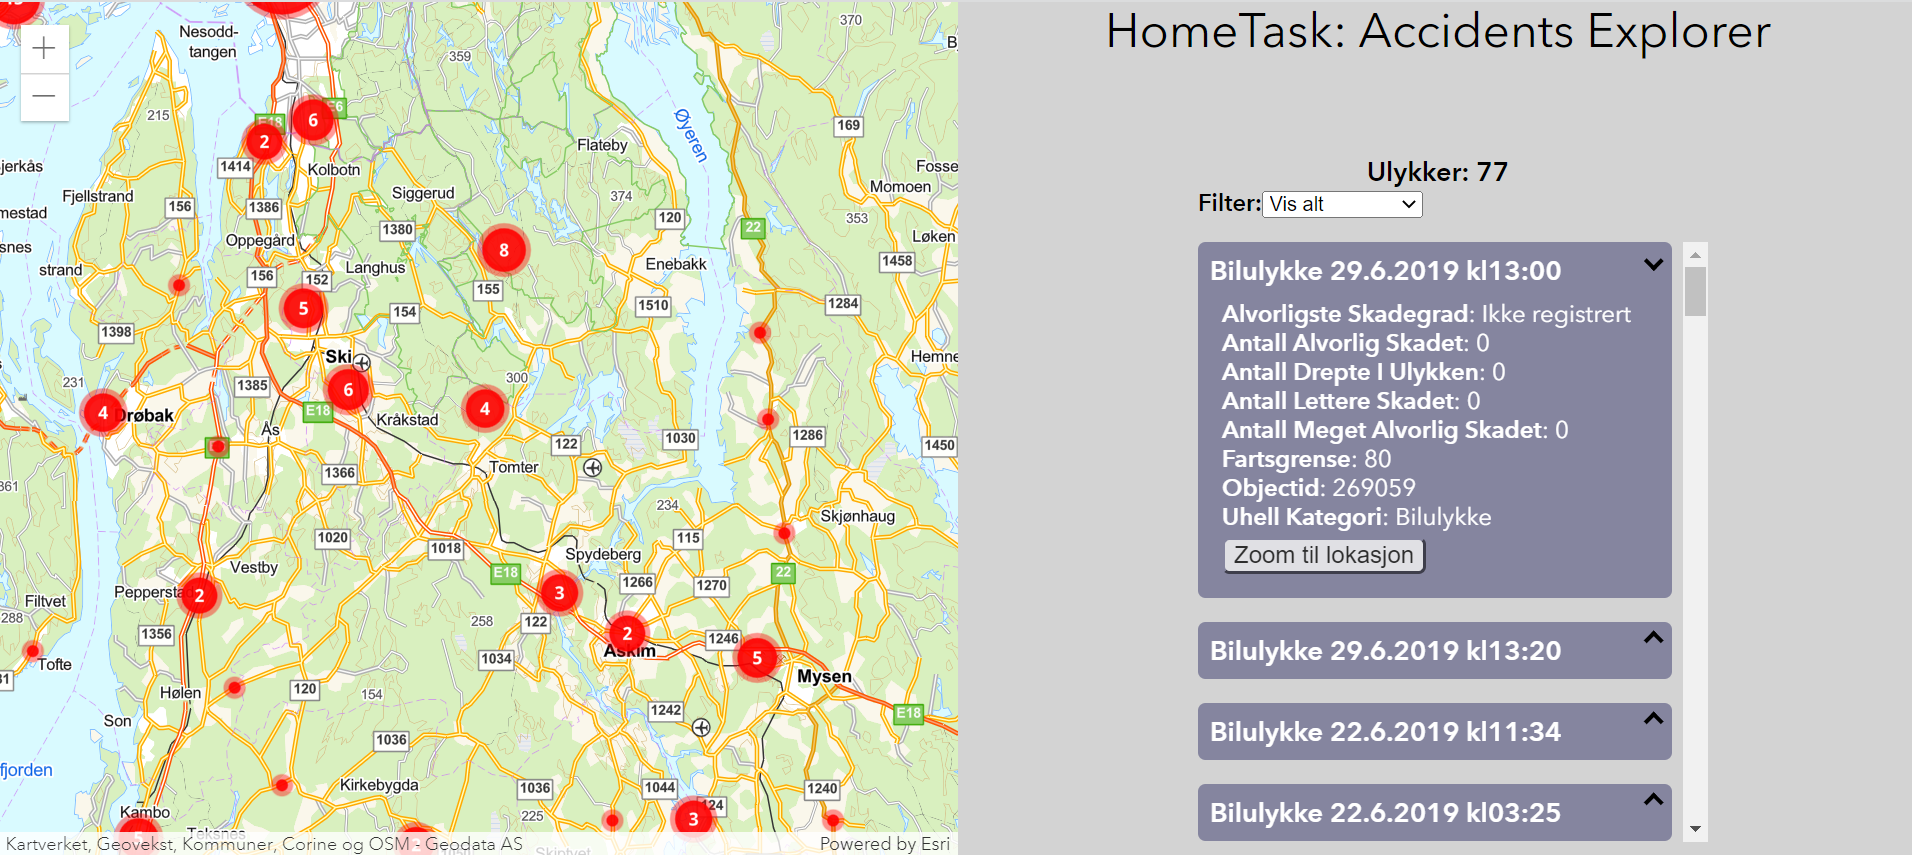
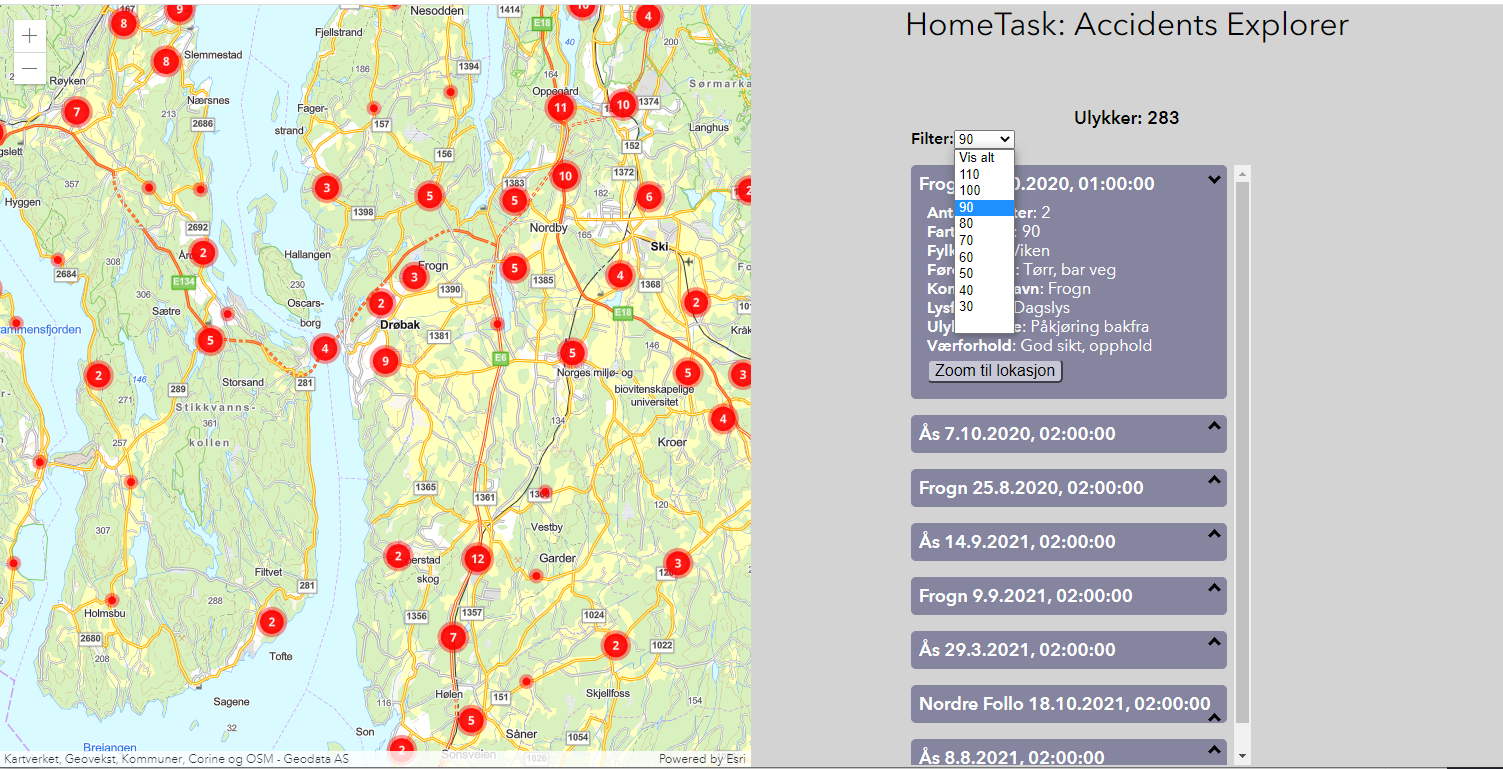
Changed accident map service. Updated attributes and description according to new service

diff --git a/src/Components/Map/mapConfig.js b/src/Components/Map/mapConfig.js
@@ -18,17 +18,14 @@ export const basemapNorway = new Basemap({
     ]
 });
 
-// NVDB Norsk Veidatabank
+// NVDB Norsk Veidatabank public AGOL mapservice
 export const layerNVDB = new FeatureLayer({
     portalItem: {
-      id: 'c985fb2357f9466784107b4905629375',
+      id:'2bb514c0c8ba433598d7d7a8a21a48f6',
     },
-    outFields: ['alvorligste_skadegrad', 'ulykkesdato','ulykkestidspunkt','uhell_kategori','antall_drepte_i_ulykken','antall_meget_alvorlig_skadet','antall_alvorlig_skadet','antall_lettere_skadet','fartsgrense'],
+    outFields: ['Ulykkeskode', 'Ulykkesdato','Antall_enheter','Fylkenavn__Ny_','Kommunenavn__Ny_','Værforhold','Føreforhold','Lysforhold','fartsgrense'],
     title: 'NVDB',
-    timeExtent: { // show only nvdb features from 2019
-        start: new Date(2019, 1, 1),
-        end: new Date(2020, 1, 1)
-      },
+    definitionExpression: "Ulykkesdato >= date '2020-01-01 00:00:00'",
     useViewTime: false,
     renderer: { // override render
         type: "simple", 

diff --git a/src/Components/Map/MapContainer.js b/src/Components/Map/MapContainer.js
@@ -47,8 +47,13 @@ function MapContainer({setAccidents, location}) {
         // ex: result returns "alvorligste_skadegrad:6429"; code:6429 means "Alvorlig skadd"
         const _getAttributesWithDomainValue = (attributes) => {
           var attributesWithDomainValues = [];
-          for (const [key, value] of Object.entries(attributes)) {    
-            attributesWithDomainValues[key] = _fieldsHash[key]?.getName(value) ?? attributes[key]
+          for (const [key, value] of Object.entries(attributes)) { 
+            attributesWithDomainValues[key] = _fieldsHash[key]?.getName(value) ?? value;
+            if(key.indexOf("__Ny_")>-1){
+              const newKey = key.replace("__Ny_", "");
+              attributesWithDomainValues[newKey] = value;
+              delete attributesWithDomainValues[key];
+            }
           }
           return attributesWithDomainValues;
         };

diff --git a/README.md b/README.md
@@ -15,7 +15,7 @@ Applikasjon består av 2 deler, en kartdel og datavisningsdel.
 Kartet er basert på Esri ArcGIS Javascript API.
 Oppgaven består i å lage datavisningsdelen.
 
-Data i er hentet fra Nasjonal Vegdatabase (NVDB) og består av ulykker registert hos NVDB i perioden 2019-2020. Disse er ulykkene er vist som rød punkter i kartet. Når kartet oppdateres(panorere, zooom osv), hentes det ut data for alle punkter vist i kartet og disse sendes til datavisningskomponenten.
+Data i er hentet fra Nasjonal Vegdatabase (NVDB) og består av ulykker registert hos NVDB i perioden etter 01.01.2020. Disse er ulykkene er vist som røde punkter i kartet. Når kartet oppdateres(panorere, zoom osv), hentes det ut data for alle punkter vist i kartet, og disse sendes til datavisningskomponenten.
 
 ## Kom i gang
 Last ned/clone repository til deg lokalt, og start løsningen.
@@ -44,21 +44,21 @@ Du styrer selv hvordan du vil lage datavisningsdelen. __Fokuser på funksjonalit
 ## Oppgave 1 - Listevisning
 Lag en liste med visning av ulykkesdata.
 
-Data skal være alltid være sortert på dato for ulykken, siste ulykke først. Sorter på feltet __'ulykkesdato'__.
+Data skal være alltid være sortert på dato for ulykken, siste ulykke først. Sorter på feltet __'Ulykkesdato'__.
 
-Hver ulykke bør vise f.eks ulykkeskatergori og dato for ulykken.
+Hver ulykke bør vise f.eks kommunenavn og dato for ulykken.
 
 ## Oppgave 2 - Expand/Collapse
-Ved å klikke på en ulykke skal man kunne se resterende data for ulykken. Lag en collapse/expand ("vis"/"skjul" data for ulykke) funksjonalitet når bruker klikke på tittelen du opprettet.
+Ved å klikke på en ulykke skal man kunne se resterende data for ulykken. Lag en collapse/expand ("vis"/"skjul" data for ulykke) funksjonalitet når bruker klikker på tittelen du opprettet.
 
 ## Oppgave 3 - Filtrering
-Det kan bli mye data dersom man zoomer deg ut i kartet, så bruker ønsker å kunne filtrere lista basert på feltet "alvorligste_skadegrad". F.eks bare kunne se ulykker med "Letter skadd" i lista.
+Det kan bli mye data dersom man zoomer deg ut i kartet, så bruker ønsker å kunne filtrere lista basert på feltet "Fartsgrense". F.eks bare kunne se ulykker med fartsgrense "100" (km/t) i lista.
 Det bør også være et eget alternativ for å se alle data, altså ufiltrert (default). 
 
 ## Oppgave 4 - Første ulykke alltid expanded
 Når nye data hentes, altså kartområdet endres, skal første ulykke alltid være expanded(oppslått). Alle andre ulykker er collapsed.
 
-Bruker vil også at den kun er en ulykke som kan være expanded om gangen, så klikker bruker på en ulykke for å se alle ulykkesdata må evt andre lukkes.
+Bruker vil også at den kun er en ulykke som kan være expanded om gangen, så klikker bruker på en ulykke for å se alle ulykkesdata, må evt andre åpnede ulykker lukkes.
 
 ## Oppgave 5 - Knapp: "Zoom til lokasjon"
 Lag en knapp som skal kunne zoome til valgt ulykke i kartet.
